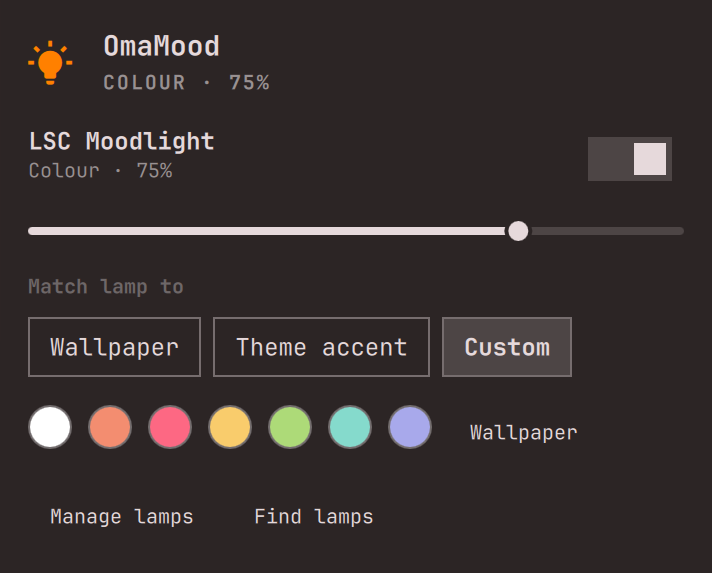
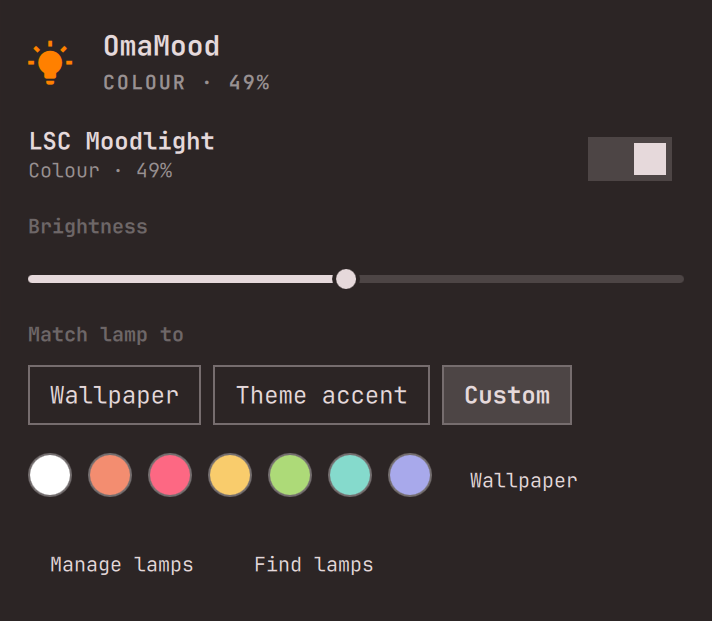
README: refresh screenshot (Brightness label)

diff --git a/README.md b/README.md
@@ -5,7 +5,7 @@ brightness and colour. The lamp can match your wallpaper or theme accent every
 time you change themes, and it switches off while the computer sleeps, coming
 back as it was when it wakes.
 
-<p align="center"><img src="docs/screenshot.png" alt="The OmaMood panel: lamp power and brightness, Match lamp to Wallpaper / Theme accent / Custom, and colour swatches" width="420"></p>
+<p align="center"><img src="docs/screenshot.png" alt="The OmaMood panel: lamp power, Brightness slider, Match lamp to Wallpaper / Theme accent / Custom, and colour swatches" width="420"></p>
 
 - **Local.** Commands go straight to the lamp over your home network. The cloud
   is used once during setup, to fetch the lamp's key, and logged out right after.
